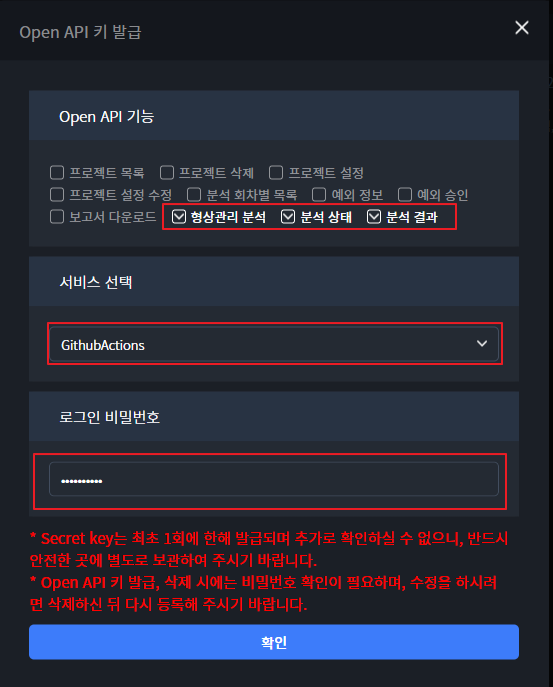
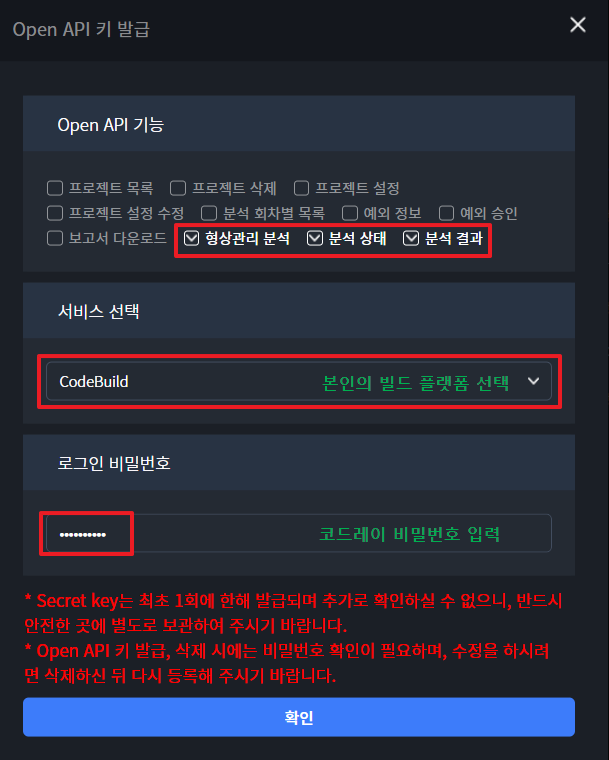
가이드 작성 완료

diff --git a/README.md b/README.md
@@ -1,19 +1,18 @@
 # 코드레이 연계 가이드
 >
-> 기존에 구성된 DevOps 파이프라인에 `소스정적분석 단계 추가`하는 것을 안내합니다.\
+> 기존에 구성된 DevOps 파이프라인에 `코드레이분석 단계 추가`하는 것을 안내합니다.\
 > 참고로, `코드레이`는 SK AX에서 사용하고 있는 **소스정적분석도구 솔루션**입니다.\
 > 본 가이드는 DevOps 파이프라인에 **단계 추가**에 관한 부분만 안내하며\
-> 실제 코드레이 사용법은 정보보호팀에게 연락 하시기 바랍니다. \
-> 도커이미지경로: ghcr.io/skccmygit/coderay-openapi:latest
+> 실제 코드레이 사용법은 정보보호팀에게 연락 하시기 바랍니다.
 
 ## 사전 준비 작업
 
 - [X] **코드레이 접속 계정** (<https://coderay.skax.co.kr:28443>)
-- [X] **코드레이 관리 프로젝트 코드 정보**
-- [X] **코드레이 연동관리 인증 KEY**
-- [X] **코드레이 Open API ACCESS 및 SECRET KEY**
-- [X] **빌드서버 → 코드레이 서버 방화벽해제**
-- [X] **코드레이서버 → 소스저장소 방화벽해제**
+- [X] **코드레이 `형상관리 인증 KEY`**
+- [X] **코드레이 Open API `ACCESS 및 SECRET KEY`**
+- [X] **코드레이 `프로젝트 코드` 정보**
+- [X] **빌드플랫폼 → 코드레이 서버 방화벽해제**
+- [X] **코드레이 서버 → 소스저장소 방화벽해제**
 
 ※ 코드레이 계정 및 프로젝트 존재하지 않을 경우 신청 필요
 
@@ -35,7 +34,7 @@
   ![접속테스트 클릭](./images/coderay_2_con_test_2.png)
 - **접속 성공 시, 아래와 같은 메시지 안내**\
   ![접속 성공](./images/coderay_2_con_test_3.png)\
-- **형상관리 인증 정보의 문자열은 `연동관리 인증 KEY`로 사용됩니다.**\
+- **형상관리 인증 정보의 문자열은 `형상관리 인증 KEY`로 사용됩니다.**\
   ![새로고침 클릭](./images/coderay_2_con_test_4.png)
 
 ### 2. Open API 접속 KEY 발급
@@ -50,30 +49,46 @@
   ![ACCESS, SECRET KEY 저장](./images/openapi_set_3.png)
 
 ### 3. 코드레이 프로젝트 코드 확인
-
+>
+> 코드레이 프로젝트는 소스저장소와 **1:1 맵핑**이 되어야 합니다. \
+> 그러지 않을 경우 증분분석 기능이 동작되지 않아 분석시간이 증가 됩니다. \
+> 코드레이 프로젝트 생성은 `정보보호팀`에게 연락 바랍니다.
+>
 - **코드레이 프로젝트 코드 확인**\
   ![프로젝트 코드 확인](./images/openapi_set_4.png)
 
-### 4. CICD 파이프라인에 코드레이 연계 단계 추가
+### 4. CICD 파이프라인에 코드레이 분석 단계 추가
 >
-> 기존 빌드 스텝에서 `코드레이 연계 단계만 추가`합니다.\
-> 코드레이 연계는 Docker 기반으로 호출 합니다.\
-> Docker 호출 시, `변수 또는 시크릿`은 빌드 플랫폼 내의 기능을 활용하여도 무방합니다.\
-> 도커이미지 정보: **ghcr.io/skccmygit/coderay-openapi:latest**
+> 기존 빌드 스텝에서 `코드레이 분석 단계만 추가`합니다.\
+> 코드레이 연계는 기본적으로 **Docker 이미지 실행** 방법을 기본으로 합니다. \
+> Docker 이미지 실행이 불가한 경우에는 **Jar 실행** 방법을 사용하면 됩니다. \
+> CICD 파이프라인에서 실행 파라미터는 빌드 플랫폼 내의 `변수 또는 시크릿` 기능을 활용하여도 무방합니다.\
+
+### 도커 이미지 및 JAR 정보
+>
+> Docker Image와 Jar 파일 주소는 하단 정보를 확인 바랍니다. \
+> **외부에서도** 접근 가능하도록 되어 있으나 \
+> 폐쇄된 공간에 빌드서버가 존재하는 경우 **방화벽신청** 또는 **nexus 서버**(사용시)에 업로드하여 사용하시면 됩니다.
+
+구분 | 주소
+--|--
+Docker Image|ghcr.io/skccmygit/coderay-openapi:latest
+Jar|<https://github.com/skccmygit/skax-coderay-guide/releases/download/latest/coderay-open-api.jar>
   
-#### 2-1. GithubActions workflow
+#### 4-1. `Docker Image` 이용 예제 (GitActions workflow 이용)
 >
-> 기존의 workflow.yml 파일 내용에서 `Coderay 연동 부분`만 추가하면 됩니다. \
-> Github Actions variable 및 secret을 이용한 예제입니다. \
+> 기존의 workflow.yml 파일 내용에서 `Coderay 분석 단계`만 추가하면 됩니다. \
+> Github Actions **variable 및 secret**을 이용한 예제입니다. \
 > workflow 구성은 각 프로젝트에 맞게 만들면 됩니다. (Job 또는 Step 구성)
 
-- 아래는 Step 구성으로 호출한 샘플 입니다. (체크아웃-빌드-코드레이스캔-배포)
+- 아래는 Step 구성으로 호출한 샘플 입니다.
+- 체크아웃-빌드-**코드레이도커이미지풀-코드레이분석**-배포
 
   ```yml
   jobs:
     build:
       runs-on:
-        group: organization/Default
+        group: organization/internal-runner-linux
       steps:
         - name: Checkout
           uses: actions/checkout@v3
@@ -83,9 +98,10 @@
             echo "===== Build Stage ====="
             echo "빌드 수행"
         
-        - name: Coderay Docker Image Pull
+        - name: 코드레이 Docker Image Pull
           run: docker pull ${{ vars.CODERAY_IMAGE_NAME }}
-        - name: Coderay Scan
+
+        - name: 코드레이 분석 요청
           run: |
             docker run --rm \
               --name coderay-open-api \
@@ -95,7 +111,7 @@
               -e PC_CODE=${{ vars.PC_CODE }} \
               -e ACC_CODE=${{ vars.ACC_CODE }} \
               -e SRC_URL=${{ github.server_url }}/${{ github.repository }} \
-              -e REV=${{ github.event.inputs.environment || github.ref_name }} \
+              -e REV=refs/heads/${{ github.event.inputs.environment || github.ref_name }} \
               ${{ vars.CODERAY_IMAGE_NAME }}
 
         - name: Deploy
@@ -104,79 +120,51 @@
             echo "배포 수행"
   ```
 
-#### 2-2. Jenkins
+#### 4-2. `Jar` 이용 예제 (GitActions workflow 이용)
 >
-> Jenkins 파이프라인에서 `코드레이 연계 단계(stage)만 추가` 추가 하여 사용하면 됩니다.
->
+> 기존의 workflow.yml 파일 내용에서 `Coderay 분석 단계`만 추가하면 됩니다. \
+> Github Actions **variable 및 secret**을 이용한 예제입니다. \
+> workflow 구성은 각 프로젝트에 맞게 만들면 됩니다. (Job 또는 Step 구성)
 
-```groovy
-pipeline {
-  agent any
+- 아래는 Step 구성으로 호출한 샘플 입니다.
+- 체크아웃-빌드-**코드레이JAR다운로드-코드레이분석요청**-배포)
 
-  stages {
-    stage('Checkout') {
-      steps {
-        sh "echo ===== Checkout Stage ====="
-        sh "echo 각 저장소에서 체크아웃을 받음"
-      }
-    }
+  ```yml
+  jobs:
+    build:
+      runs-on:
+        group: organization/internal-runner-linux
+      steps:
+        - name: Checkout
+          uses: actions/checkout@v3
 
-    stage('Build') {
-      steps {
-        sh "echo ===== Build Stage ====="
-        sh "echo 각저장소에서 소스 빌드"
-      }
-    }
+        - name: Build
+          run: |
+            echo "===== Build Stage ====="
+            echo "빌드 수행"
+        
+        - name: 코드레이 JAR 다운로드
+          run: |
+            curl -L -O \
+              https://github.com/skccmygit/skax-coderay-guide/releases/download/latest/coderay-open-api.jar
+            
+        - name: 코드레이 분석 요청
+          run: |
+            java -jar coderay-open-api.jar \
+              --SERVICE_NAME=${{ vars.CODERAY_SERVICE_NAME }} \
+              --ACCESS_KEY=${{ vars.CODERAY_ACCESS_KEY }} \
+              --SECRET_KEY=${{ vars.CODERAY_SECRET_KEY }} \
+              --ACC_CODE=${{ vars.CODERAY_ACC_CODE }} \
+              --PC_CODE=${{ vars.CODERAY_PC_CODE }} \
+              --SRC_URL=${{ vars.CODERAY_SRC_URL }} \
+              --REV=refs/heads/${{ github.event.inputs.environment || github.ref_name }} \
+            echo "Coderay 상세 결과는 https://skax.coderay.co.kr:28443 에서 확인하세요"
 
-    stage('SAST') {
-      steps {
-        script {
-          int exitCode = sh(
-            script: '''
-              echo "===== SAST Scan (SUCCESS) ====="
-              docker run --rm \
-                --name coderay-open-api-success \
-                -e SERVICE_NAME=<서비스명> \
-                -e ACCESS_KEY=<코드레이 접근키> \
-                -e SECRET_KEY=<코드레이 비밀키> \
-                -e PC_CODE=<코드레이 프로젝트코드> \
-                -e ACC_CODE=<코드레이 형상관리 키> \
-                -e SRC_URL=<저장소 URL> \
-                -e REV=<분석대상 브랜치> \
-                ghcr.io/skccmygit/coderay-openapi:latest
-            ''',
-            returnStatus: true
-          )
-
-          if (exitCode == 0) {
-            echo "✅ SAST PASS (Success Flow)"
-            env.SAST_RESULT = "PASS"
-          } else {
-            echo "⚠ SAST FAIL (exitCode=${exitCode}) - 배포 막을 예정"
-            env.SAST_RESULT = "FAIL"
-          }
-        }
-      }
-    }
-
-    stage('Deploy') {
-      when {
-        expression { env.SAST_RESULT == "PASS" }
-      }
-      steps {
-        sh "echo ===== Deploy Stage Success Flow ====="
-        sh "echo 배포 수행"
-      }
-    }
-  }
-
-  post {
-    success { echo "🎉 Pipeline completed successfully!" }
-    failure { echo "❌ Pipeline failed" }
-  }
-}
-
-```
+        - name: Deploy
+          run: |
+            echo "Deploy Stage"
+            echo "배포 수행"
+  ```
 
 ### 5. 코드레이 사이트에서 결과 확인
 
@@ -185,21 +173,35 @@ pipeline {
 
 ## 참고사항
 
-- 환경변수 설명
+- 도커이미지 또는 JAR에 사용되는 환경변수 설명
 
-  | 환경변수명   | 설명                     |
-  | --------- | ------------------------ |
-  | ACCESS_KEY    | OpenAPI 생성시 취득한 Access Key                |
-  | SECRET_KEY | OpenAPI 생성시 취득한 Secret Key            |
-  | SERVICE_NAME     | OpenAPI 생성시 선택한 빌드 플랫폼명 |
-  | PC_CODE      | 코드레이 프로젝트 코드      |
-  | ACC_CODE    | 형상 인증 키        |
-  | SRC_URL    | 저장소 URL        |
-  | REV    | 스캔 대상 브랜치명        |
+  | 환경변수명 | 필수여부 | 설명 | 기본값 |
+  |--------|--------|------|------|
+  | **SERVICE_NAME** | **필수** | OpenAPI 생성시 선택한 빌드 플랫폼명 | |
+  | **ACCESS_KEY** | **필수** | OpenAPI 생성시 취득한 Access Key | |
+  | **SECRET_KEY** | **필수** | OpenAPI 생성시 취득한 Secret Key | |
+  | **PC_CODE** | **필수** | 코드레이 프로젝트 코드 | |
+  | **ACC_CODE** | **필수** | 형상관리 인증 KEY | |
+  | **SRC_URL** | **필수** | 소스저장소 URL | |
+  | **REV** | **필수** | `refs/heads/`+ **분석 대상 브랜치명** | |
+  | TIMEOUT_SECONDS | 옵션 | 코드레이 스캔 타임아웃 시간(초) | 600 |
+  | SERVER_URL | 옵션 | 코드레이 Open API URL | <https://coderay.skax.co.kr:28443> |
+  | SUB_MODULE | 옵션 | 분석시 서브모듈 포함 여부 | y |
+  | EXCEPT | 옵션 | 분석시 예외 적용 여부 | y |
+  | ALL_SAVE | 옵션 | 분석시 전체 저장 여부 | y |
+  | INCREMENTAL | 옵션 | 분석시 증분 분석 여부 | y |
+  | PRECISE_ANALYSIS | 옵션 | 분석시 정밀 분석 여부 | y |
+  | CRITICAL_CNT | 옵션 | Critical(심각) 허용 개수 | 0 |
+  | CRITICAL_ALLOW | 옵션 | Critical(심각) 이관 제어(n:skip) | y |
+  | HIGH_CNT | 옵션 | High(높음) 단계 허용 개수 | 0 |
+  | HIGH_ALLOW | 옵션 | High(높음) 이관 제어(n:skip) | y |
+  | MIDDLE_CNT | 옵션 | Middle(중간) 허용 개수 | 0 |
+  | MIDDLE_ALLOW | 옵션 | Middle(중간) 이관 제어(n:skip) | n |
+  | LOW_CNT | 옵션 | Low(낮음) 허용 개수 | 0 |
+  | LOW_ALLOW | 옵션 | Low(낮음) 이관 제어(n:skip) | n |
 
-- 코드레이 최초 연동시에는 분석시간이 오래 걸릴 수 있습니다.\
-  최초 이후 분석의 경우 `증분대상`만 스캔합니다.
-- **운영 파이프라인**에서는 `SAST 분석`단계는 반드시 포함되어야 합니다. \
-  그 외 단계에서는 프로젝트 내부적으로 관리하시길 바랍니다.
-- Docker 기반 호출이 불가능한 상황에서는 `Jar 파일` 수행으로 진행하면 됩니다.\
-  [코드레이 JAR 연계가이드](./coderay-openapi-guide-jar/README.md)
+- 코드레이 **최초 연동시**에는 분석시간이 오래 걸릴 수 있습니다.\
+  최초 이후 분석의 경우 `증분대상`만 분석합니다.
+
+- **적어도 `운영단계` 파이프라인**에서는 `코드레이 분석` 단계는 반드시 포함되어야 합니다. \
+  그 외 단계에서는 프로젝트 내 의사결정을 하시길 바랍니다.
